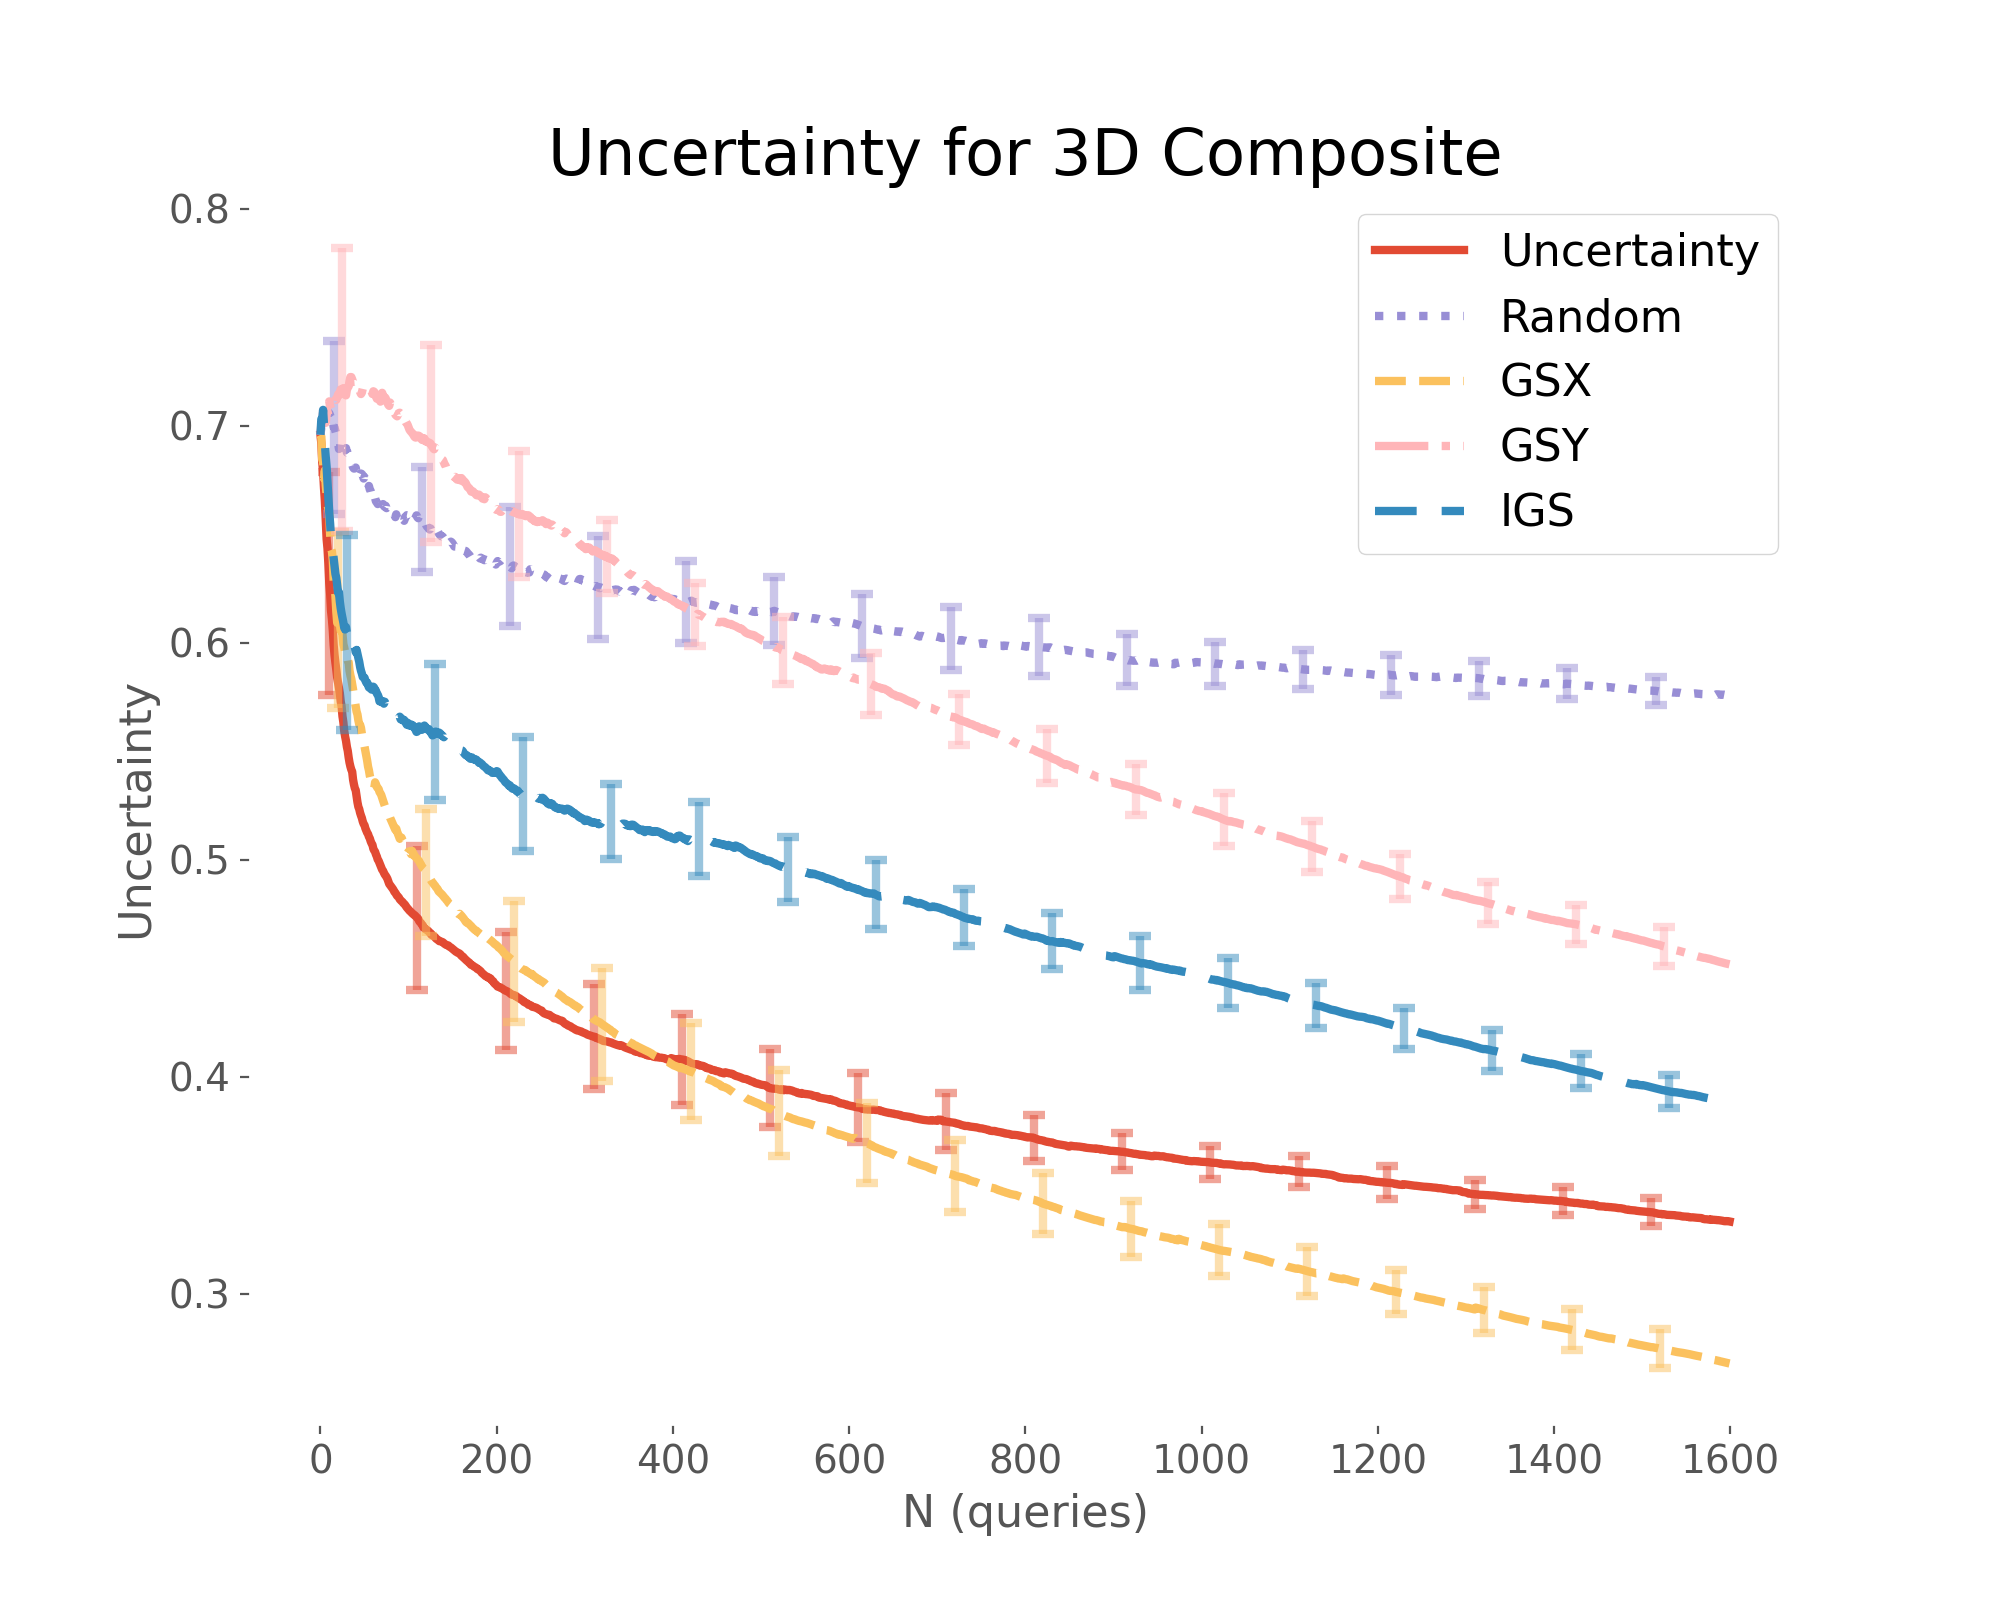
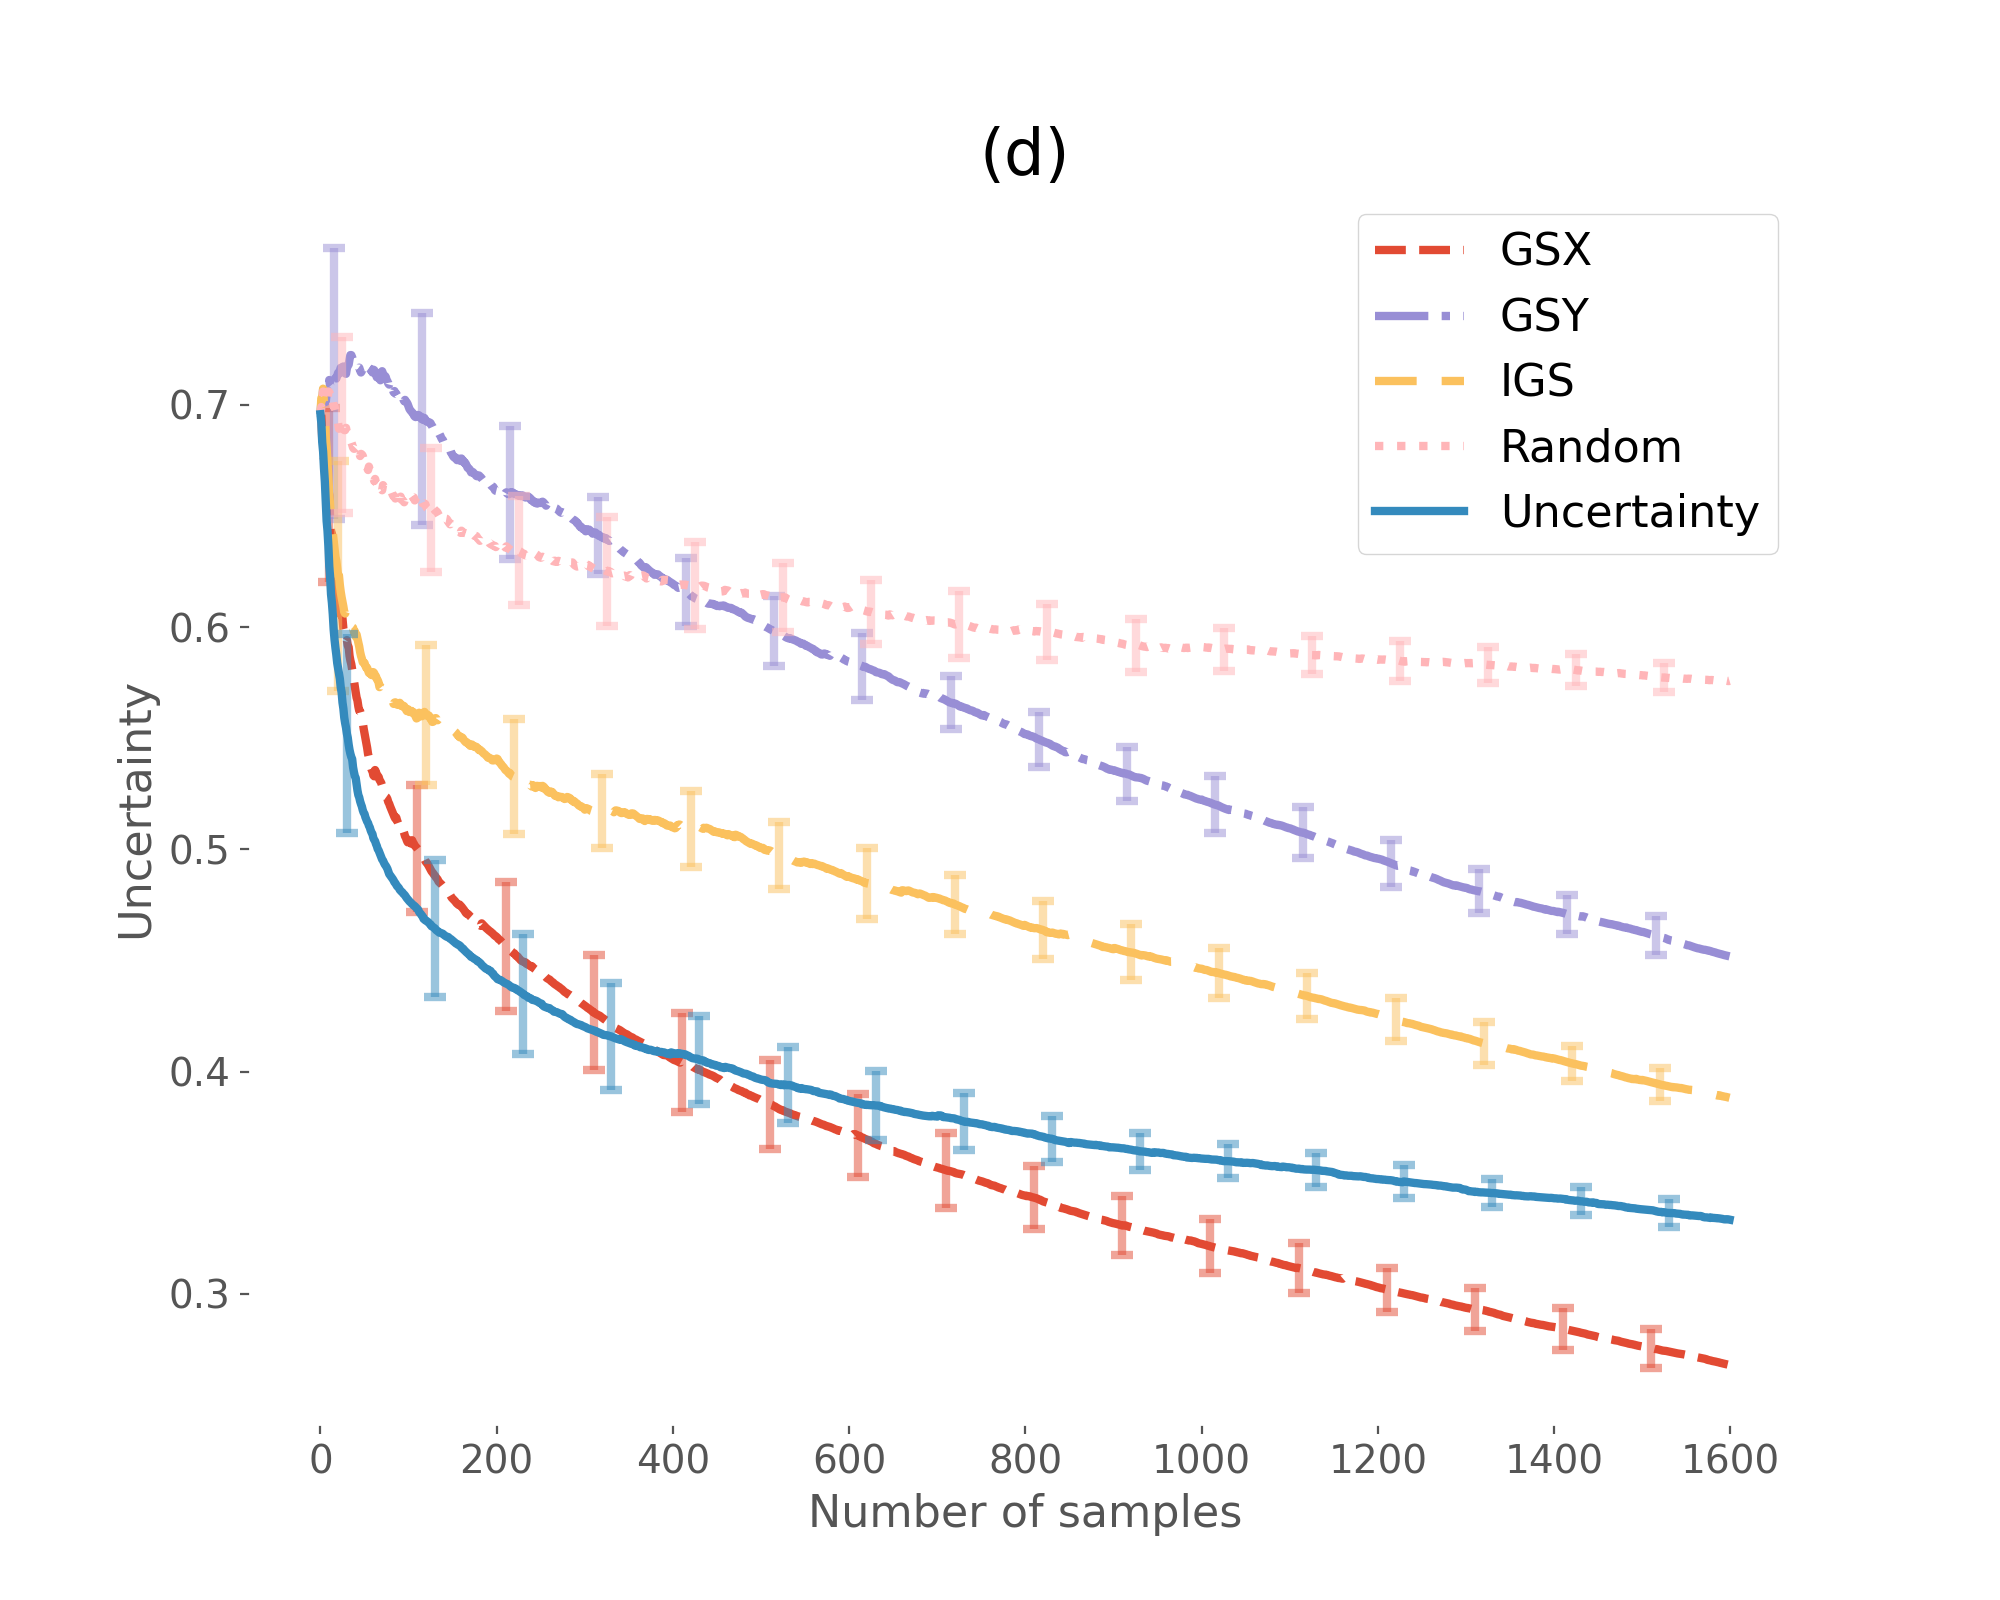
update 3D uncertainty plot

diff --git a/3D/calc-uncertainty.md b/3D/calc-uncertainty.md
@@ -18,15 +18,7 @@ uncertainty_input_files = [
     f"job_2023-10-03_test-uncertainty_v000/active_uncertainty_{i}.npz"
     for i in range(1)
 ]
-#active_input_files = [
-#    "job_2023-09-08_test-merge_v000/active_train_save_0.npz",
-#    "job_2023-09-08_test-merge_v000/active_train_save_1.npz",
-#    "job_2023-09-08_test-merge_v000/active_train_save_2.npz",
-#    "job_2023-09-08_test-merge_v000/active_train_save_3.npz",
-#    "job_2023-09-08_test-merge_v000/active_train_save_4.npz",
-#    "job_2023-09-08_test-merge_v000/active_train_save_5.npz"
-#]
-plot_file = "uncertainty.png"
+work_dir = "."
 ```
 
 ```python
@@ -36,6 +28,7 @@ from toolz.curried import map as map_
 import ot
 import matplotlib.pyplot as plt
 import matplotlib
+import os
 ```
 
 ```python
@@ -71,60 +64,7 @@ data_agg = valmap(aggregate, swap(data_uncertainty))
 ```
 
 ```python
-def plot_diversity(scores, opt=None, error_freq=20, ylog=False):
-    plt.style.use('ggplot')
-    plt.rcParams['axes.facecolor']='w'
-    plt.figure(figsize=(10, 8))
-    plt.rc('xtick', labelsize=14)    # fontsize of the tick labels
-    plt.rc('ytick', labelsize=14) 
-    ax = plt.gca()
-    matplotlib.rc('font', **dict(size=16))
-    names = dict(
-        uncertainty=('Uncertainty', 'solid'),
-        random=("Random", 'dotted'),
-        gsx=("GSX", 'dashed'),
-        gsy=("GSY", 'dashdot'),
-        igs=("IGS", (5, (10, 3)))
-    )
-
-    offset = 10
-    for k, v in scores.items():
-        y = v['mean']
-        x = np.arange(len(y))
-        
-        if ylog:
-            p = ax.semilogy(x, y, label=names[k][0], lw=3, linestyle=names[k][1])
-        else:
-            p = ax.plot(x, y, label=names[k][0], lw=3, linestyle=names[k][1])
-        
-        e = v['std']
-        xe, ye, ee = x[offset::error_freq], y[offset::error_freq], e[offset::error_freq]
-        ax.errorbar(xe, ye, yerr=ee, alpha=0.5, ls='none', ecolor=p[-1].get_color(), elinewidth=3, capsize=4, capthick=3)
-        offset += 5
-        
-    if opt is not None:
-        xx = [0, 50, 100, 150, 200]
-        yy = [opt] * len(xx)
-        
-        if ylog:
-            p = ax.semilogy(xx, yy, 'k--', label='Optimal')
-        else:
-            p = ax.plot(xx, yy, 'k--', label='Optimal')
-        
-    plt.legend(fontsize=16)
-    plt.xlabel('N (queries)', fontsize=16)
-    plt.ylabel(r'Uncertainty', fontsize=16)
-   
-    return plt, ax
+for k, v in data_agg.items():
+    np.savez(os.path.join(work_dir, k + '-uncertainty.npz'), **v)
 ```
 
-```python
-
-plot_diversity(data_agg, ylog=False, error_freq=100)
-plt.title('Uncertainty for 3D Composite')
-plt.savefig(plot_file, dpi=200)
-```
-
-```python
-
-```

diff --git a/3D/plot-uncertainty.md b/3D/plot-uncertainty.md
@@ -1,0 +1,91 @@
+---
+jupyter:
+  jupytext:
+    formats: ipynb,md
+    text_representation:
+      extension: .md
+      format_name: markdown
+      format_version: '1.3'
+      jupytext_version: 1.14.5
+  kernelspec:
+    display_name: Python 3 (ipykernel)
+    language: python
+    name: python3
+---
+
+```python tags=["parameters"]
+plot_file = "uncertainty.png"
+work_dir = "."
+```
+
+```python
+import numpy as np
+from toolz.curried import pipe, pluck, curry, valmap, identity
+from toolz.curried import map as map_
+import ot
+import matplotlib.pyplot as plt
+import matplotlib
+import os
+```
+
+```python
+def plot_diversity(scores, opt=None, error_freq=20, ylog=False):
+    plt.style.use('ggplot')
+    plt.rcParams['axes.facecolor']='w'
+    plt.figure(figsize=(10, 8))
+    plt.rc('xtick', labelsize=14)    # fontsize of the tick labels
+    plt.rc('ytick', labelsize=14) 
+    ax = plt.gca()
+    matplotlib.rc('font', **dict(size=16))
+    names = dict(
+        uncertainty=('Uncertainty', 'solid'),
+        random=("Random", 'dotted'),
+        gsx=("GSX", 'dashed'),
+        gsy=("GSY", 'dashdot'),
+        igs=("IGS", (5, (10, 3)))
+    )
+
+    offset = 10
+    for k, v in scores.items():
+        y = v['mean']
+        x = np.arange(len(y))
+        
+        if ylog:
+            p = ax.semilogy(x, y, label=names[k][0], lw=3, linestyle=names[k][1])
+        else:
+            p = ax.plot(x, y, label=names[k][0], lw=3, linestyle=names[k][1])
+        
+        e = v['std']
+        xe, ye, ee = x[offset::error_freq], y[offset::error_freq], e[offset::error_freq]
+        ax.errorbar(xe, ye, yerr=ee, alpha=0.5, ls='none', ecolor=p[-1].get_color(), elinewidth=3, capsize=4, capthick=3)
+        offset += 5
+        
+    if opt is not None:
+        xx = [0, 50, 100, 150, 200]
+        yy = [opt] * len(xx)
+        
+        if ylog:
+            p = ax.semilogy(xx, yy, 'k--', label='Optimal')
+        else:
+            p = ax.plot(xx, yy, 'k--', label='Optimal')
+        
+    plt.legend(fontsize=16)
+    plt.xlabel('Number of samples', fontsize=16)
+    plt.ylabel(r'Uncertainty', fontsize=16)
+   
+    return plt, ax
+```
+
+```python
+data_agg = dict()
+keys = sorted(['gsx', 'igs', 'random', 'uncertainty', 'gsy'])
+for k in keys:
+    data_agg[k] = np.load(os.path.join(work_dir, k + '-uncertainty.npz'))
+```
+
+
+```python
+plot_diversity(data_agg, ylog=False, error_freq=100)
+plt.title('(d)')
+plt.savefig(plot_file, dpi=200)
+```
